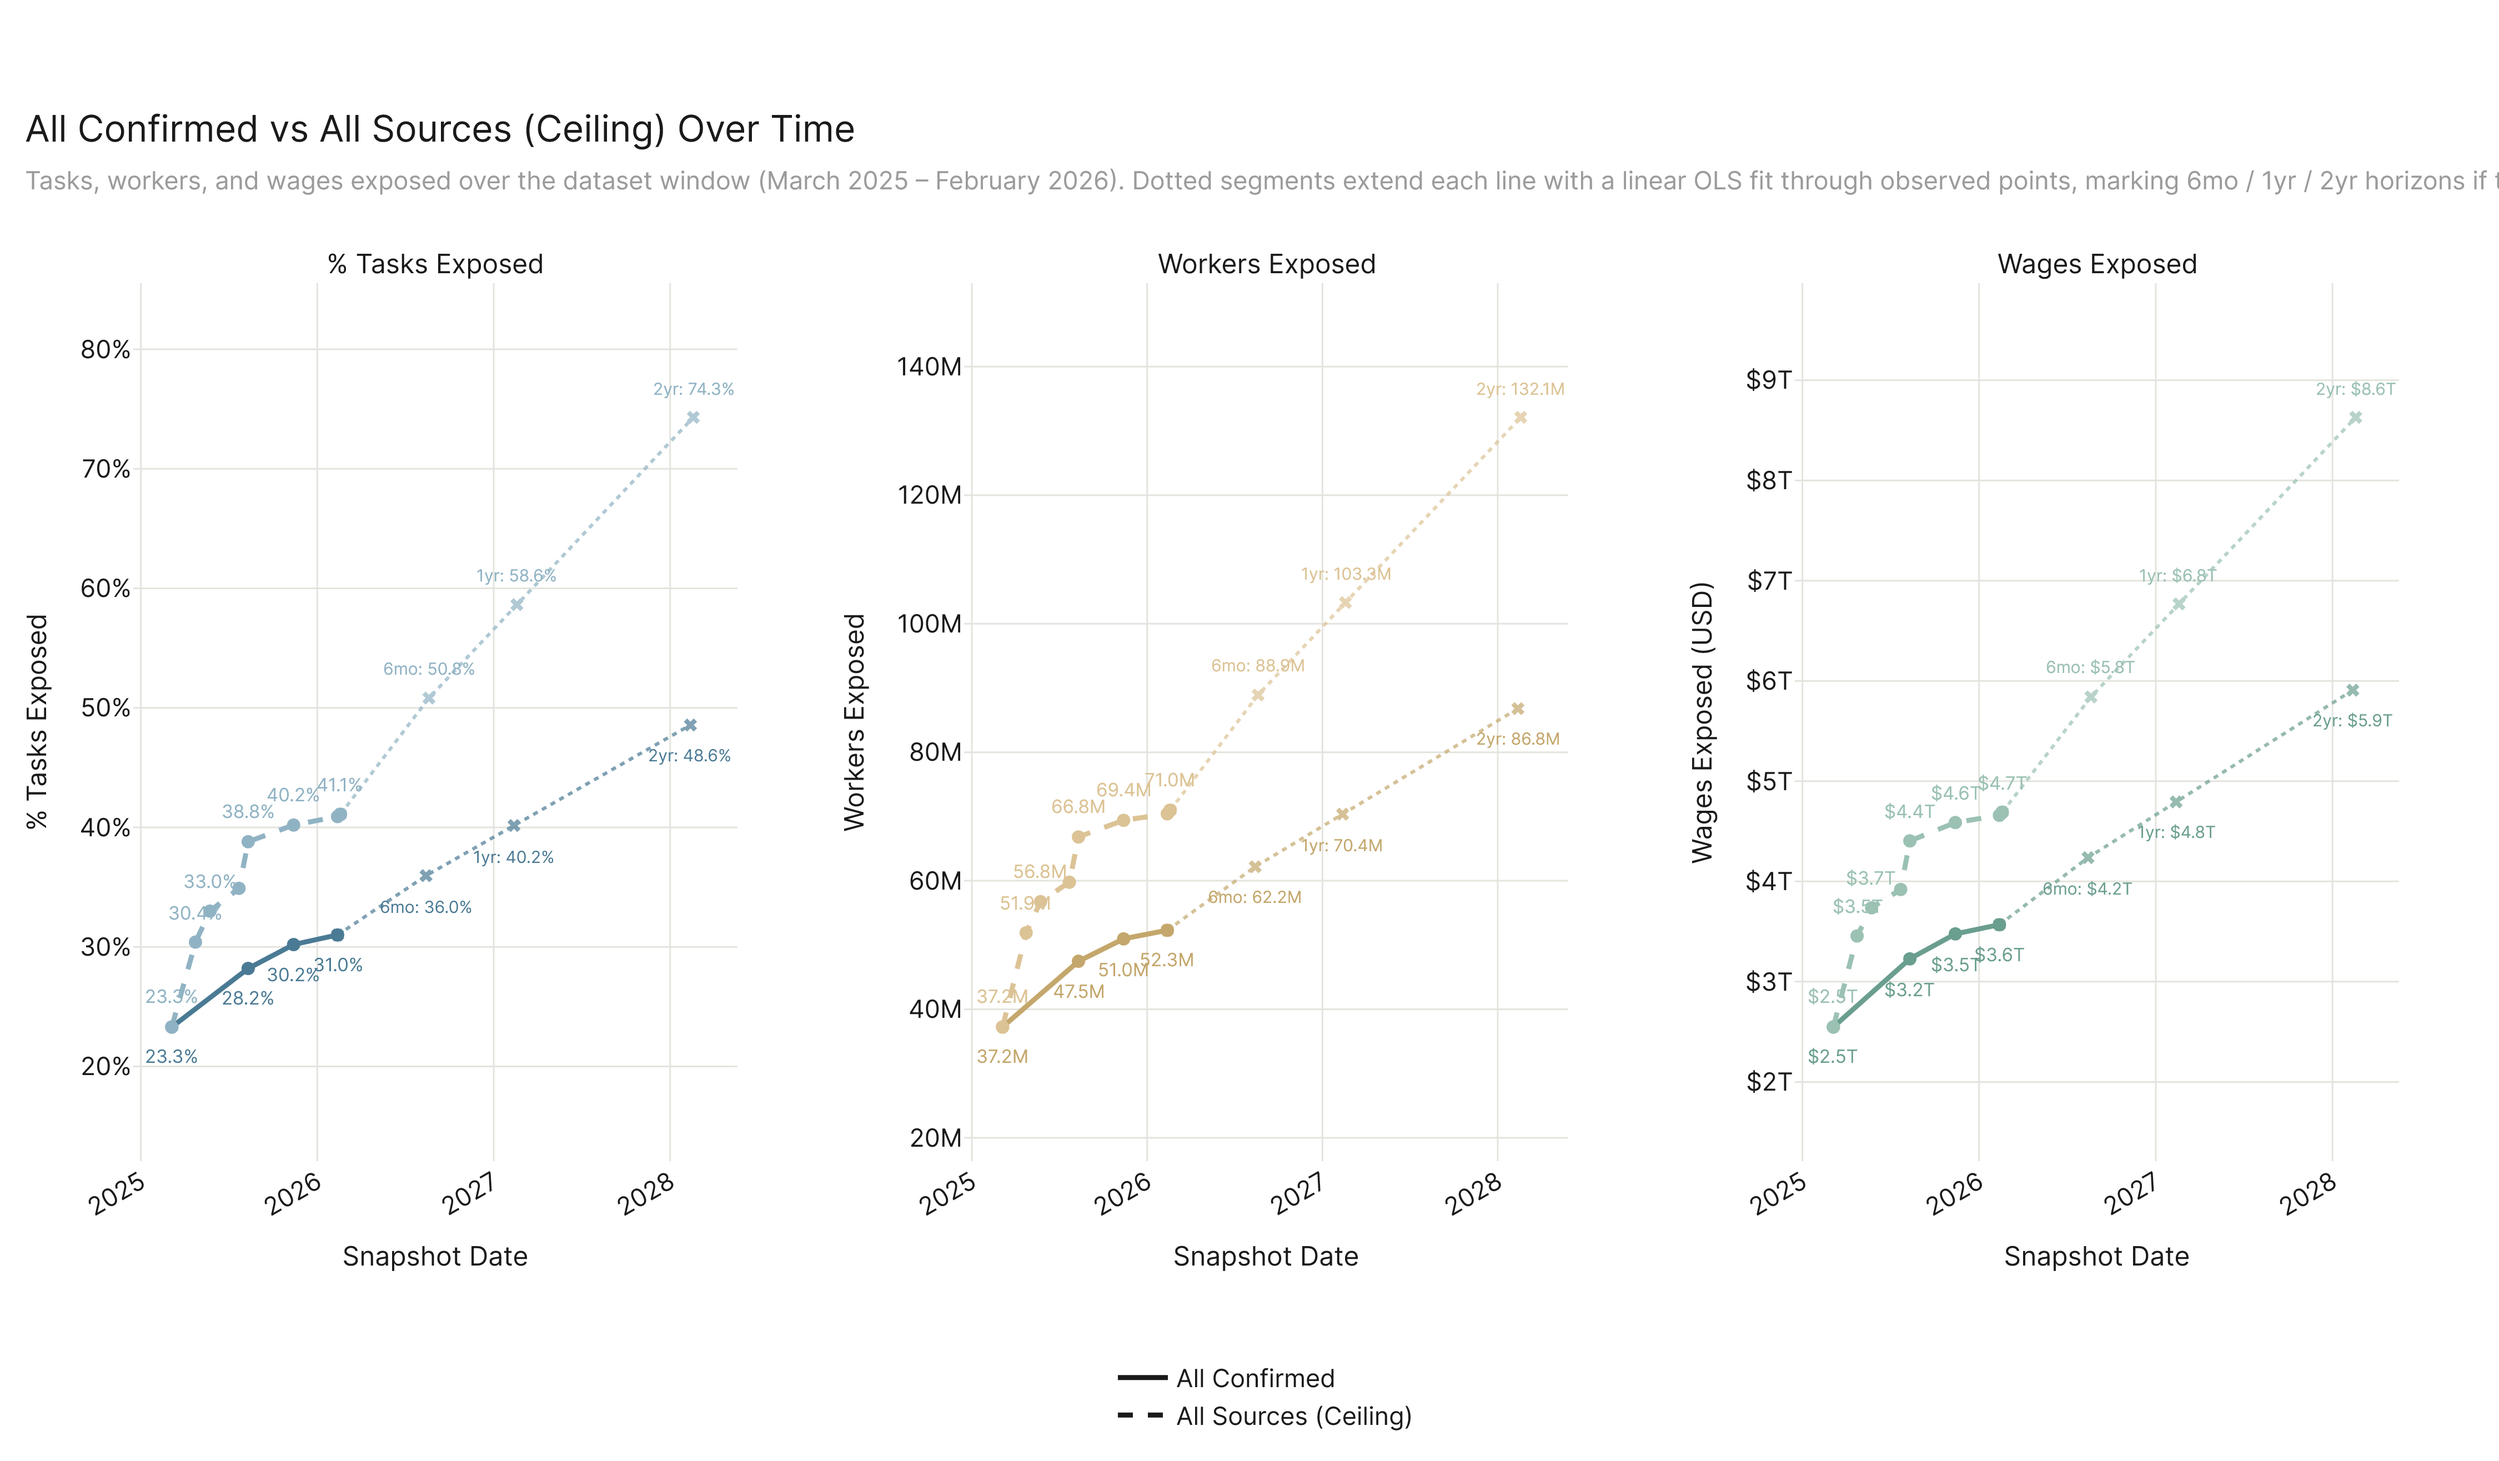
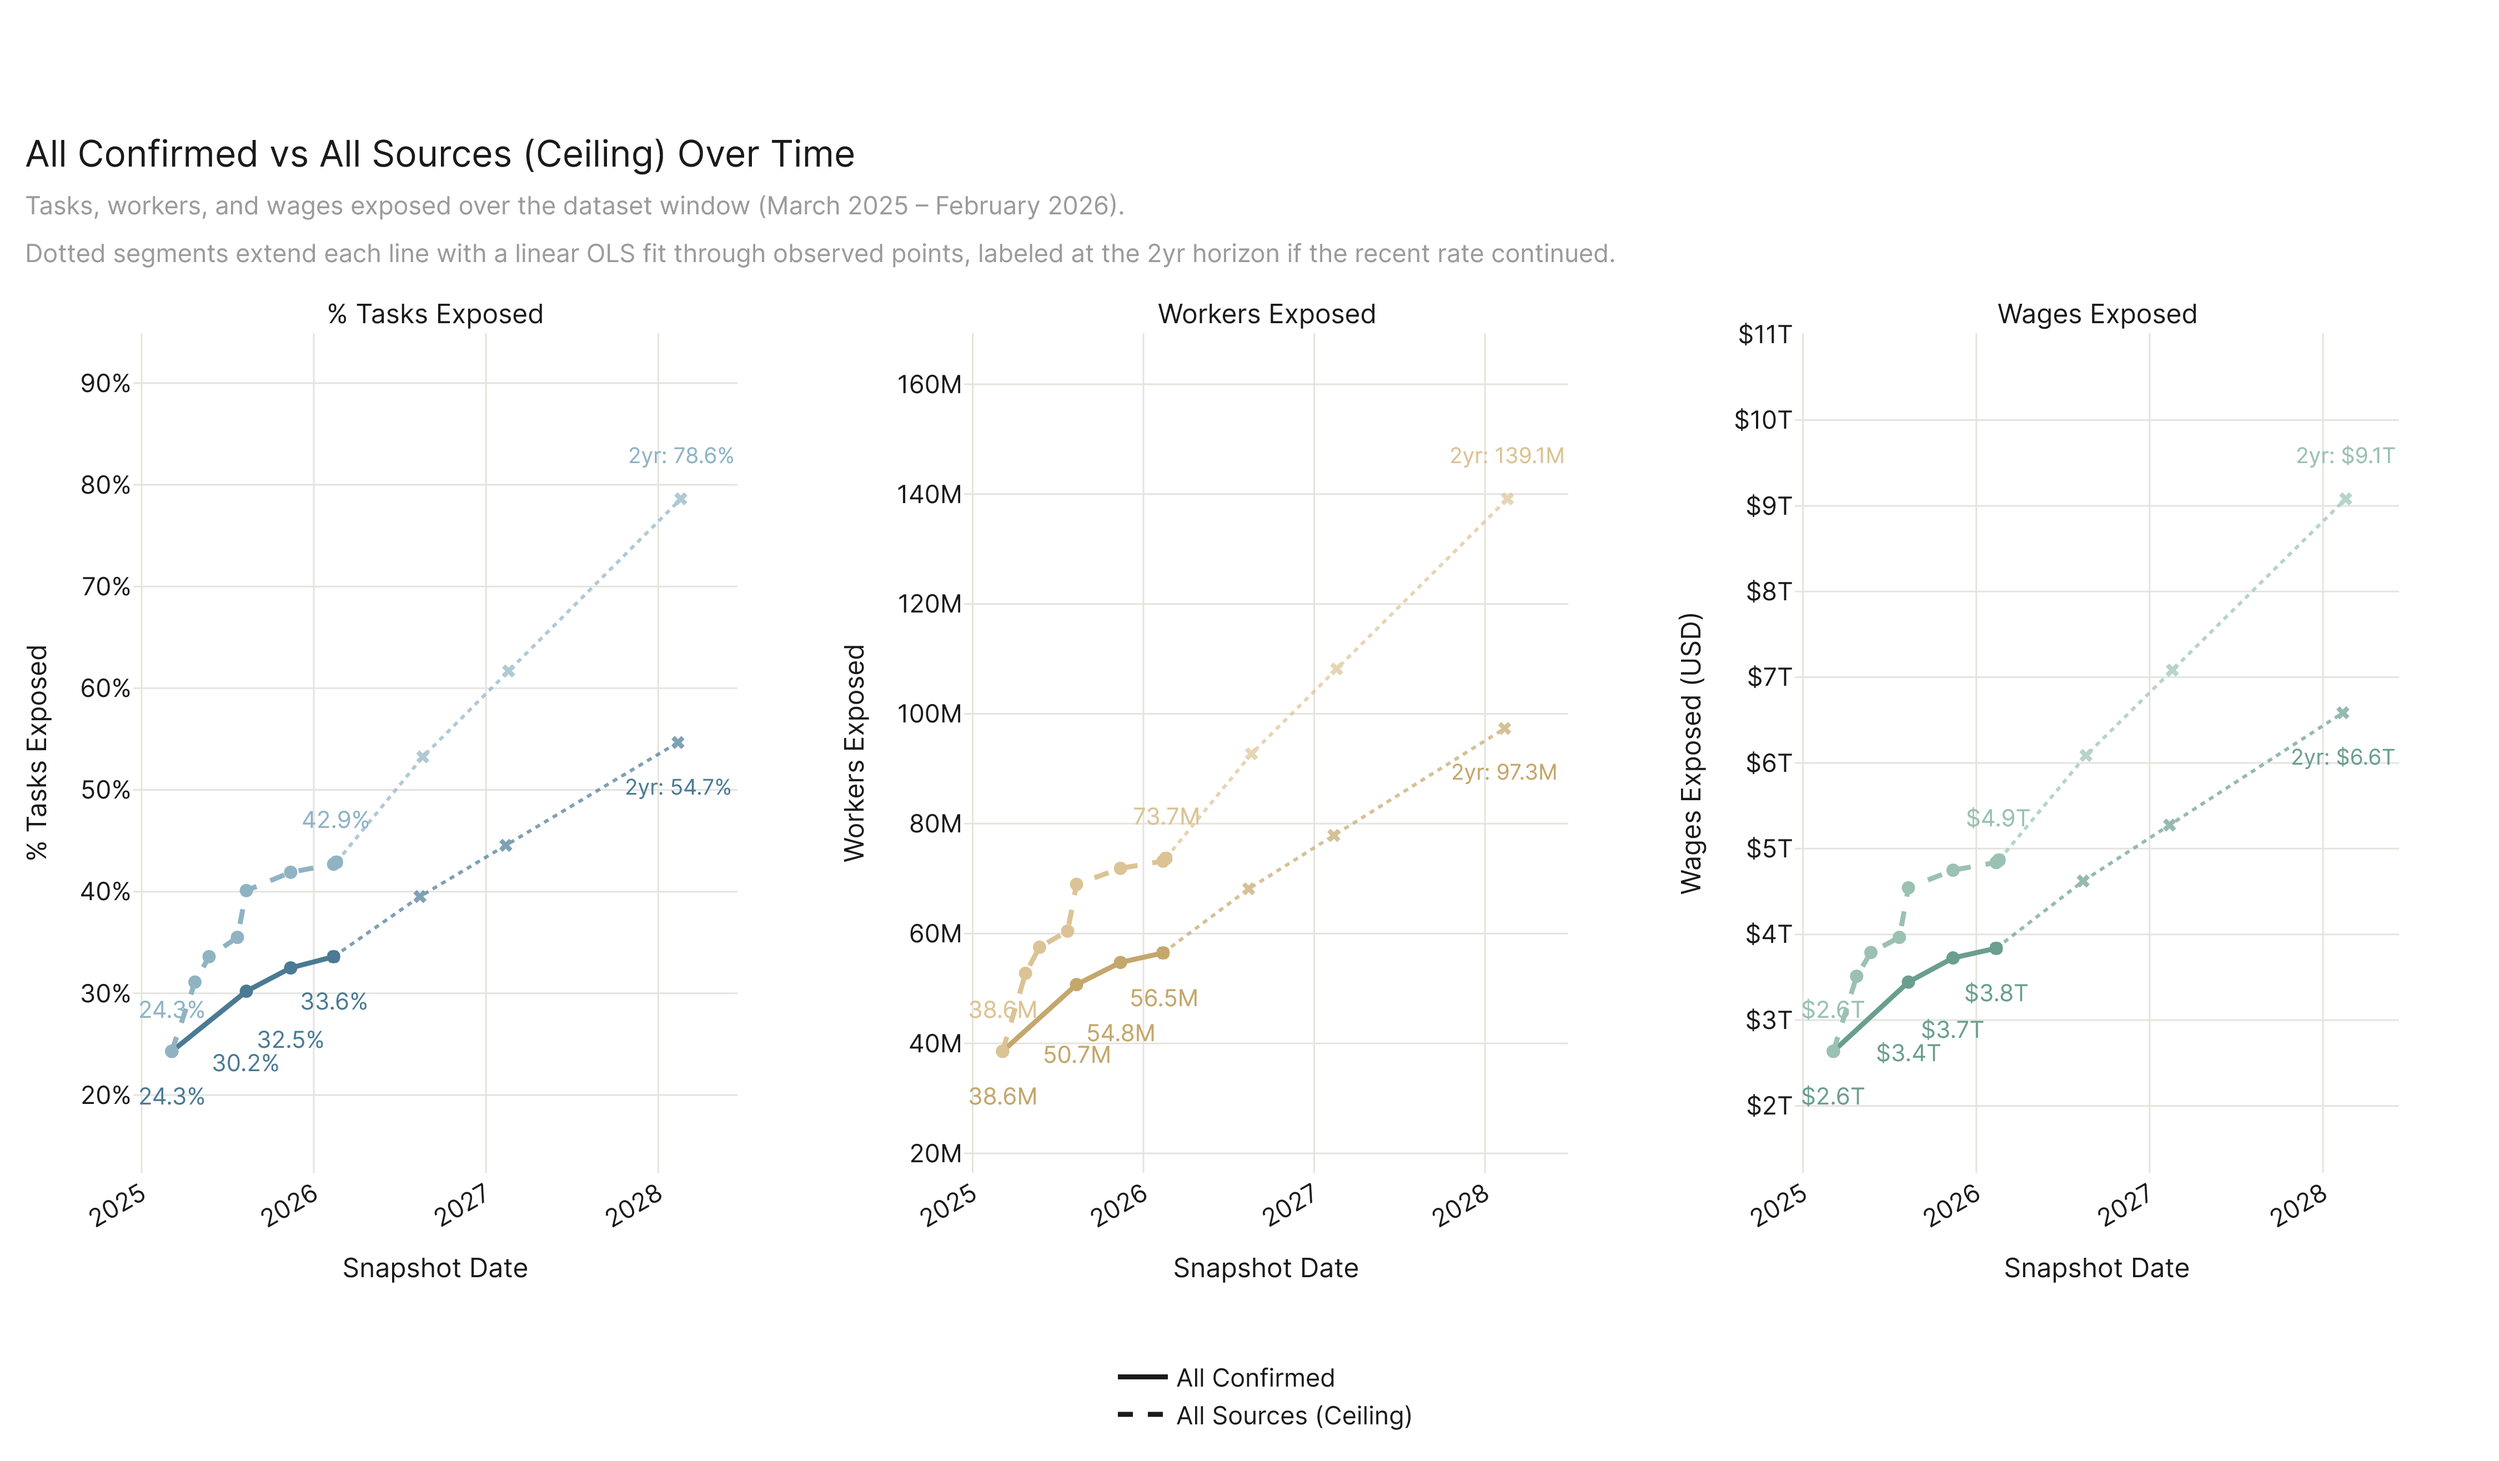
paper(part_1): clean up temporal_trend — wrap subtitle, bigger labels, sparse ceiling labels, stagger close confirmed labels
- Subtitle wraps onto two lines so it stops getting clipped on the right
- Per-point data labels 11px → 14px, horizon labels 10px → 13px, marker offset 18px → 26px
- Ceiling line labels only first + last observed (drops the ~8 middle labels that crowded the panel); confirmed keeps all spaced observations
- Linear projection now labels only the 2yr horizon (drops 6mo / 1yr labels)
- Close-spaced confirmed labels (gap < 120d) get staggered y-shift so adjacent values (e.g. Nov 2025 / Feb 2026) sit at different vertical rows instead of overlapping

diff --git a/analysis/paper/results/part_1/run.py b/analysis/paper/results/part_1/run.py
@@ -1092,7 +1092,9 @@ def _build_three_panel_trend(trend_df: pd.DataFrame, results: Path, figures: Pat
     # Pixel offset for value labels above/below each marker. This is a
     # fixed pixel shift so labels stay clear of the line as it curves
     # between markers, regardless of zoom or aspect ratio.
-    LABEL_YSHIFT_PX = 18
+    LABEL_YSHIFT_PX = 26
+    LABEL_FS_DATA = 14      # Per-point data labels
+    LABEL_FS_HORIZON = 13   # Projection horizon labels
 
     # Horizons (days from final observed date) for the linear extrapolation
     # band on each panel. 2-year ceiling chosen because longer horizons are
@@ -1178,8 +1180,14 @@ def _build_three_panel_trend(trend_df: pd.DataFrame, results: Path, figures: Pat
             ), row=1, col=col_idx)
 
             # Linear "if-recent-rate-continued" projection extending past
-            # the final observed point at 6mo / 1yr / 2yr horizons.
+            # the final observed point. Only the 2yr horizon gets a value
+            # label — the 6mo / 1yr points carry the line shape but would
+            # crowd the panel if labeled.
             horizon_days = [d for _, d in EXTRAP_HORIZONS_DAYS]
+            twoyr_idx = next(
+                (i for i, (lbl, _) in enumerate(EXTRAP_HORIZONS_DAYS) if lbl == "2yr"),
+                len(EXTRAP_HORIZONS_DAYS) - 1,
+            )
             future_ts, future_ys = _linear_fit_project(xvals, yvals, horizon_days)
             if future_ts:
                 proj_x = [pd.Timestamp(xvals[-1])] + future_ts
@@ -1195,31 +1203,57 @@ def _build_three_panel_trend(trend_df: pd.DataFrame, results: Path, figures: Pat
                     opacity=0.7,
                 ), row=1, col=col_idx)
                 panel_vals.extend(future_ys)
-                for (hz_label, _), t, v in zip(EXTRAP_HORIZONS_DAYS, future_ts, future_ys):
-                    fig.add_annotation(
-                        x=t, y=v,
-                        xref=x_ref, yref=y_ref,
-                        text=f"{hz_label}: {fmt_fn(v)}",
-                        showarrow=False,
-                        yshift=yshift,
-                        font=dict(size=ANNOT_FS - 2, color=color, family=FONT_FAMILY),
-                    )
+                hz_label, _ = EXTRAP_HORIZONS_DAYS[twoyr_idx]
+                fig.add_annotation(
+                    x=future_ts[twoyr_idx], y=future_ys[twoyr_idx],
+                    xref=x_ref, yref=y_ref,
+                    text=f"{hz_label}: {fmt_fn(future_ys[twoyr_idx])}",
+                    showarrow=False,
+                    yshift=yshift,
+                    font=dict(size=LABEL_FS_HORIZON, color=color, family=FONT_FAMILY),
+                )
 
-            # Per-point value labels as annotations with explicit pixel
-            # yshift — ensures the line never overlaps the text. Skip
-            # labels for dates within 25 days of the next kept label so
-            # close-clustered dates (e.g. Feb 12 / Feb 18) don't stack.
-            kept = _spaced_label_indices(xvals)
+            # Per-point value labels on the observed data line. Confirmed
+            # (primary lens) gets every spaced point labeled; ceiling has
+            # ~10 observations so we keep only the first and last to avoid
+            # crowding the panel. For tightly clustered confirmed labels
+            # (gap < CLOSE_GAP_DAYS), we stagger the y-position so the
+            # earlier label sits one row further from the line — keeps both
+            # readable without dropping either.
+            CLOSE_GAP_DAYS = 120
+            STAGGER_PX = 16
+            if config_key == "all_confirmed":
+                kept_set = _spaced_label_indices(xvals)
+            elif len(xvals) >= 2:
+                kept_set = {0, len(xvals) - 1}
+            else:
+                kept_set = set(range(len(xvals)))
+
+            # Compute per-label yshift, applying stagger to a kept label
+            # whose neighbour to the right is within CLOSE_GAP_DAYS.
+            kept_sorted = sorted(kept_set)
+            kept_ts = {i: pd.Timestamp(xvals[i]) for i in kept_sorted}
+            per_label_yshift: dict[int, int] = {}
+            for pos, i in enumerate(kept_sorted):
+                shift = yshift
+                if pos + 1 < len(kept_sorted):
+                    nxt = kept_sorted[pos + 1]
+                    if (kept_ts[nxt] - kept_ts[i]).days < CLOSE_GAP_DAYS:
+                        # Push earlier label further from the line (same
+                        # direction as yshift — away from the marker).
+                        shift = yshift + (-STAGGER_PX if yshift < 0 else STAGGER_PX)
+                per_label_yshift[i] = shift
+
             for i, (x_i, y_i) in enumerate(zip(xvals, yvals)):
-                if i not in kept:
+                if i not in kept_set:
                     continue
                 fig.add_annotation(
                     x=x_i, y=y_i,
                     xref=x_ref, yref=y_ref,
                     text=fmt_fn(y_i),
                     showarrow=False,
-                    yshift=yshift,
-                    font=dict(size=ANNOT_FS - 1, color=color, family=FONT_FAMILY),
+                    yshift=per_label_yshift[i],
+                    font=dict(size=LABEL_FS_DATA, color=color, family=FONT_FAMILY),
                 )
 
         # Tight y-range — leave enough room above and below the data band
@@ -1228,7 +1262,7 @@ def _build_three_panel_trend(trend_df: pd.DataFrame, results: Path, figures: Pat
             v_lo, v_hi = min(panel_vals), max(panel_vals)
             spread = v_hi - v_lo
             pad_lo = spread * 0.22
-            pad_hi = spread * 0.22
+            pad_hi = spread * 0.30  # extra room for the 2yr projection label
             y_min = max(0.0, v_lo - pad_lo)
             y_max = v_hi + pad_hi
         else:
@@ -1258,13 +1292,13 @@ def _build_three_panel_trend(trend_df: pd.DataFrame, results: Path, figures: Pat
         "All Confirmed vs All Sources (Ceiling) Over Time",
         subtitle=(
             "Tasks, workers, and wages exposed over the dataset window "
-            "(March 2025 – February 2026). Dotted segments extend each line "
-            "with a linear OLS fit through observed points, marking 6mo / 1yr / 2yr "
-            "horizons if the recent rate continued."
+            "(March 2025 – February 2026).<br>"
+            "Dotted segments extend each line with a linear OLS fit through "
+            "observed points, labeled at the 2yr horizon if the recent rate continued."
         ),
         height=PAPER_H + 90,
         width=PAPER_W + 100,
-        margin=dict(l=80, r=60, t=170, b=160),
+        margin=dict(l=80, r=60, t=200, b=160),
     )
 
     # Bottom-aligned legend driven by the neutral dummy traces.

diff --git a/analysis/paper/results/part_1/README.md b/analysis/paper/results/part_1/README.md
@@ -9,7 +9,7 @@ First section of the Results chapter. First draft complete. Content in `part_1.m
 | `overview.png` | Five-config aggregate footprint: % tasks, workers, and wages as % of national totals (blue/teal/gold bars) |
 | `convergence.png` | 2x2 Spearman rank correlation heatmaps at four SOC levels. Each panel combines an internal lower-triangle block (4 sources × 4 sources: Claude Browser, Claude API, Copilot, MCP) with a rectangular external block (4 sources × 7 external benchmarks: Eloundou GPT-4 β, Eloundou Human β, AIOE mean, AIOE Reading Comprehension, Schaal Overall, Schaal DA, Tomlinson (Copilot)) |
 | `convergence_configs.png` | Same 2x2 layout but rows are the 5 ANALYSIS_CONFIGS (All Confirmed, All Ceiling, Conversational Confirmed, Agentic Confirmed, Agentic Ceiling) instead of the 4 individual sources. Internal lower-triangle 5×5 + external rectangle 5×7. |
-| `temporal_trend.png` | Three-panel line chart (% tasks / workers / wages) over time, All Confirmed (solid) vs All Ceiling (dashed). Each line is extended past its final observation with a dotted linear OLS projection marking 6mo / 1yr / 2yr horizons (assumes recent rate continues). |
+| `temporal_trend.png` | Three-panel line chart (% tasks / workers / wages) over time, All Confirmed (solid) vs All Ceiling (dashed). Each line is extended past its final observation with a dotted linear OLS projection, labeled at the 2yr horizon. Confirmed data points are labeled at each spaced observation; ceiling shows only first + last observed labels. |
 | `temporal_table_all_confirmed.png` | Growth data table for All Confirmed: tasks, workers, wages, auto-aug, coverage per date |
 | `temporal_table_all_ceiling.png` | Growth data table for All Sources (Ceiling): same columns |
 
